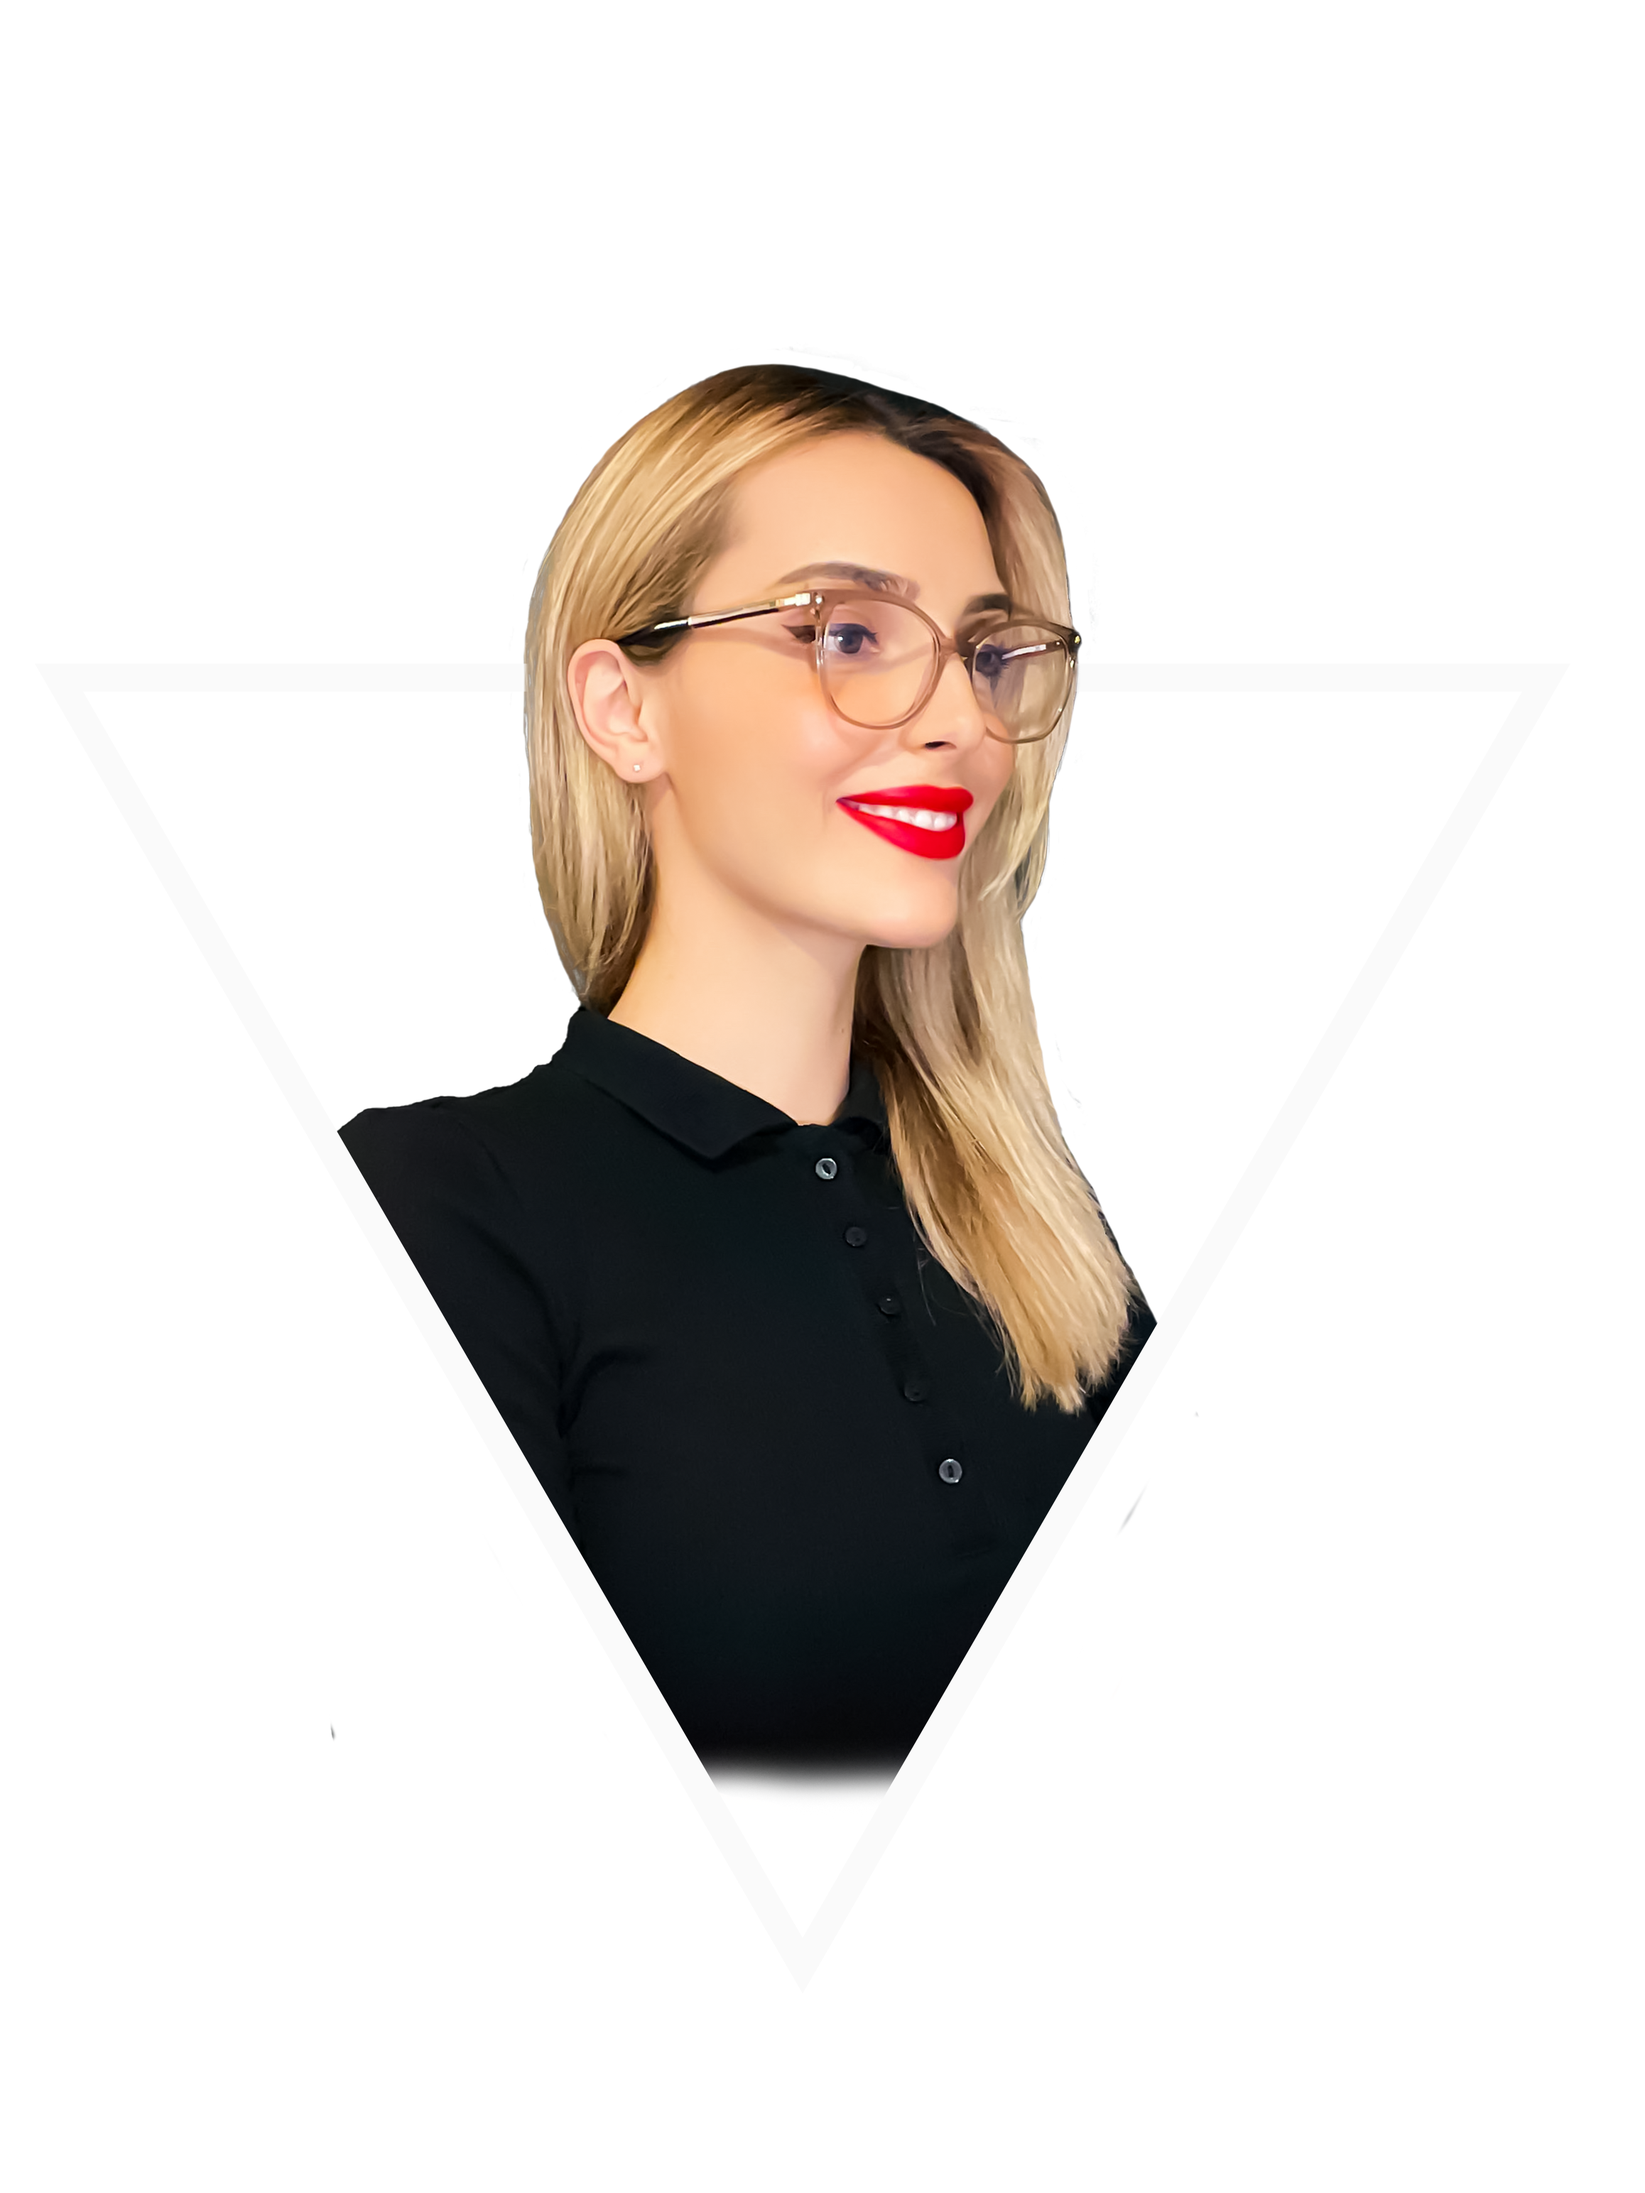
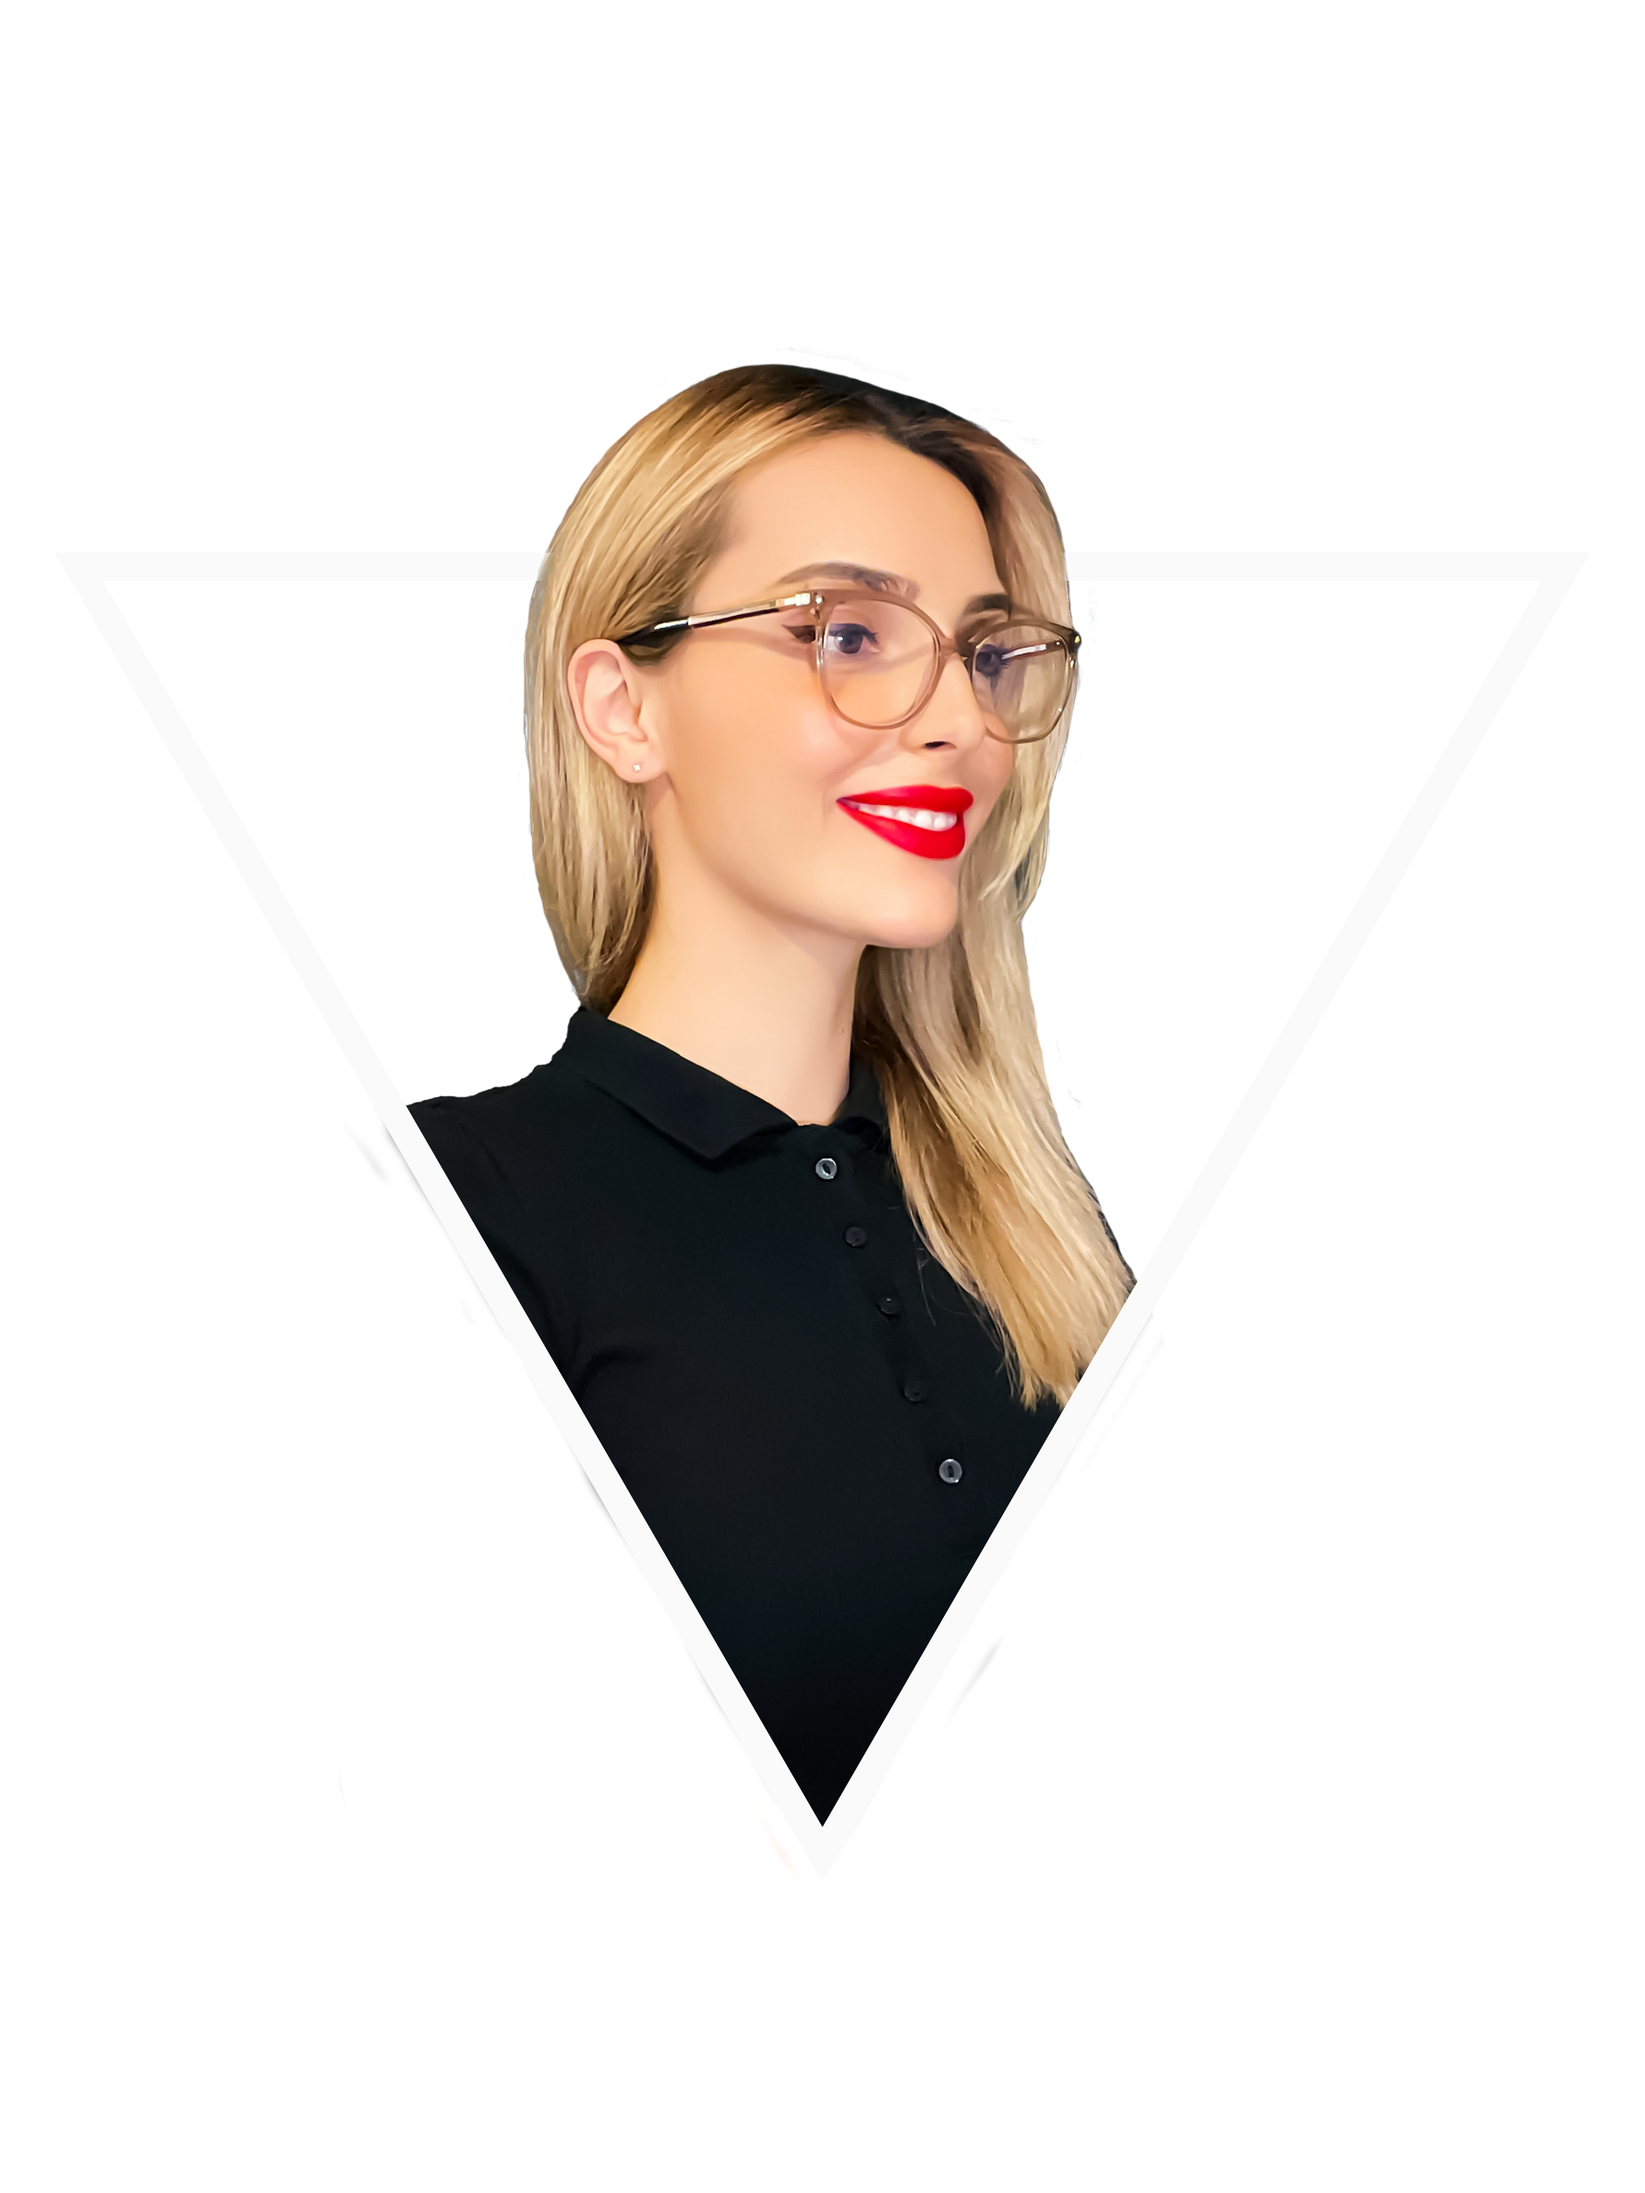
commit 3

Changed region(s): [[0.1865, 0.4974, 0.715, 0.8394]]

diff --git a/src/App.css b/src/App.css
@@ -7,7 +7,7 @@ body {
 }
 
 .page-container {
-    background-image: url('./assets/Untitled design(2).png');
+    /*background-image: url('./assets/Untitled design(2).png');*/
     background-repeat: no-repeat;
     background-size: cover;
     background-attachment: fixed;

diff --git a/src/components/About/About.tsx b/src/components/About/About.tsx
@@ -1,6 +1,6 @@
 import React from 'react';
 import './About.css';
-import photo from '../../assets/photo1.png';
+import photo from '../../assets/clean.png';
 
 const About: React.FC = () => {
     return (
